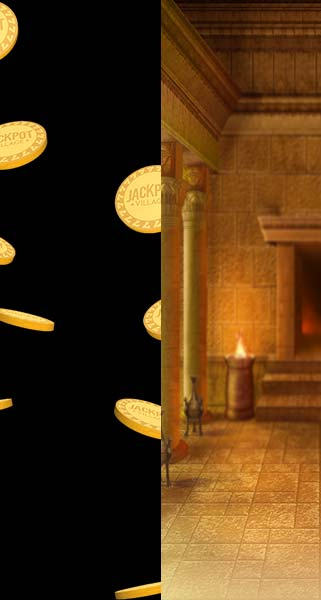
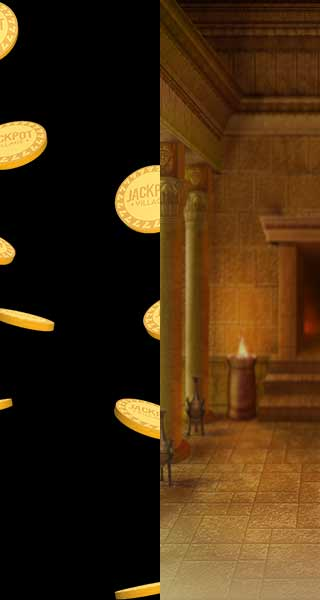
added  new JS

diff --git a/src/sizes/160x600/style.scss b/src/sizes/160x600/style.scss
@@ -1,22 +1,25 @@
 @import "@project/styles/global.scss";
 
-$fr1line1Top:100px;
-$fr1line2Top:180px;
-$fr1line3Top:350px;
+$banHeight: 600px;
 
-$fr2line1Top:95px;
-$fr2line2Top:115px;
-$fr2line3Top:160px;
+$ctaPosBot: 30px;
 
-$fr3line1Top:75px;
-$fr3line2Top:95px;
-$fr3line3Top:140px;
-$fr3ProvidersTop:156px;
+$fr1line1Top:180px;
+$fr1line2Top:240px;
+$fr1line3Top:340px;
+
+$fr2line1Top:115px;
+$fr2line2Top:185px;
+$fr2line3Top:230px;
+
+$fr3line1Top:115px;
+$fr3line2Top:185px;
+$fr3line3Top:250px;
+$fr3ProvidersTop:380px;
 
 $fr4line1Top:95px;
 $fr4line2Top:115px;
 $fr4line3Top:160px;
-
 
 .fr-f1 {
 
@@ -52,8 +55,8 @@ $fr4line3Top:160px;
 }
 .fr-f2 {
 	&-slide {
-		height: 600px;
-		width: 600px;
+		height: 1200px;
+		width: 1200px;
 		position: relative;
 		display: block;
 		top: 0;
@@ -65,36 +68,33 @@ $fr4line3Top:160px;
 		&-cube {
 			background-color: $acc2-color;
 			position: absolute;
-			height: 600px;
-			width: 600px;
+			height: 1200px;
+			width: 1200px;
 			left: -170px;
 			@include opacityFix(0, 0);
 		}
 
 	}
 	&-bg {
-		background: #EDBC58 repeat-y url("../jpv-bg-250x300.jpg") top right;
+		background: #EDBC58 repeat-y url("jpv-bg-160x600.jpg") top right;
 		height: 100%;
 		width: 100%;
 		display: block;
 		position: absolute;
-		background-size:  600px $banHeight ;
+		background-size:  320px $banHeight ;
 		top: 0;
 		left: 0;
 	}
-
 	&-toon {
-		background: no-repeat url("../jpv-char.png") bottom center;
+		background: no-repeat url("jpv-char-160x600.png") bottom center;
 		background-size: cover;
-		width: 101px;
-		height: 173px;
+		width: 160px;
+		height: 258px;
 		position: absolute;
-		left: -15px;
+		left: 0px;
 		bottom: 0;
 		display: block;
 	}
-
-
 	&-lines {
 		&-l1{
 			top: $fr2line1Top;
@@ -112,7 +112,7 @@ $fr4line3Top:160px;
 }
 .fr-f3 {
 	&-toon {
-		background: no-repeat url("../jpv-char.png") bottom center;
+		background: no-repeat url("jpv-char-160x600.png") bottom center;
 		background-size: cover;
 		width: 101px;
 		height: 173px;
@@ -138,43 +138,42 @@ $fr4line3Top:160px;
 	&-providers {
 		display: block;
 		position: absolute;
-		top: $fr3ProvidersTop;
 		width: 100%;
+		height: 100%;
 		.logo1, .logo2, .logo3 {
-			position: absolute;
-		}
-		.logo1 {
-			background: no-repeat url("../jpv-char.png") -15px 1px;
-			width: 68px;
-			height: 20px;
-			background-size: 101px 250px;
-			left: 5px;
-		}
-		.logo2 {
-			background: no-repeat url("../jpv-char.png") -3px -21px;
-			width: 92px;
-			height: 26px;
-			background-size: 101px 250px;
-			margin: 0 auto;
 			@extend %center;
 		}
+		.logo1 {
+			background: no-repeat url("jpv-char-160x600.png") 0 0;
+			width: 160px;
+			height: 25px;
+			background-size: 160px 360px;
+			bottom: 135px;
+		}
+		.logo2 {
+			background: no-repeat url("jpv-char-160x600.png") 0 -30px;
+			width: 160px;
+			height: 28px;
+			background-size: 160px 360px;
+			bottom: 100px;
+		}
 		.logo3 {
-			background: no-repeat url("../jpv-char.png") -5px -49px;
-			width: 86px;
-			height: 22px;
-			background-size: 101px 250px;
-			right: 5px;
+			background: no-repeat url("jpv-char-160x600.png") 0 -58px;
+			width: 160px;
+			height: 28px;
+			background-size: 160px 360px;
+			bottom: 70px;
 		}
 	}
 }
 .fr-f4 {
 	&-bg {
-		background: $acc1-color repeat-y url("../jpv-bg-250x300.jpg") 0 0;
+		background: $acc1-color repeat-y url("jpv-bg-160x600.jpg") 0 0;
 		height: 100%;
 		width: 100%;
 		display: block;
 		position: absolute;
-		background-size:  600px $banHeight ;
+		background-size:  320px $banHeight ;
 		top: 0;
 		left: 0;
 		@include opacityFix(100%, 1);
@@ -194,4 +193,12 @@ $fr4line3Top:160px;
 		}
 	}
 	&-terms{}
+}
+
+.cta-btn {
+	font-size: 18px;
+	max-width: 130px;
+	border-radius: 50px;
+	padding: 5px 0;
+	bottom: $ctaPosBot;
 }

diff --git a/src/sizes/160x600/script.js b/src/sizes/160x600/script.js
@@ -123,7 +123,7 @@ var timeline = (function MasterTimeline() {
 				.from(fr02,0.0, {opacity:0,force3D:true}, 0.1)
 				.from(fr02Cube,frSD, {opacity:1, x:-555, transformOrigin:"50% 50%", ease:Power4.easeOut}, 0.3)
 				.from(fr02Bg,frSD, {opacity:0}, 0.4)
-				.from(fr02Toon,frSD, {opacity:0, x:-700, transformOrigin:"50% 50%", ease:Power4.easeOut}, 0.5)
+				.from(fr02Toon,frSD, {opacity:0,scale: 1.5, transformOrigin:"50% 50%", ease:Power4.easeOut}, 0.5)
 				.from(fr02Line1, frSD, {opacity:0, x: -50, ease:Elastic.easeOut.config(2, 1)}, 0.6)
 				.from(fr02Line2, frSD, {opacity:0, x: 50, ease:Elastic.easeOut.config(2, 1)}, 0.7)
 				.from(fr02Line3, frSD, {opacity:0, ease:Elastic.easeOut.config(2, 1)},0.8)
@@ -135,7 +135,6 @@ var timeline = (function MasterTimeline() {
 			// Choose from 1200+ games
 			var tl = new TimelineMax();
 			tl
-				.to(fr02,0.0, {opacity:0,force3D:true}, 0.1)
 				.to(fr02Line1, frSD, {opacity:0, ease:Elastic.easeOut.config(2, 1)}, 0.0)
 				.to(fr02Line2, frSD, {opacity:0, ease:Elastic.easeOut.config(2, 1)}, 0.1)
 				.to(fr02Line3, frSD, {opacity:0, ease:Elastic.easeOut.config(2, 1)},0.2)
@@ -156,12 +155,17 @@ var timeline = (function MasterTimeline() {
 				autoRound:false,
 			});
 			
+			var Cont={val:0} , NewVal = 100 ;
+			
 			var tl = new TimelineMax();
 			tl
 				.to(fr03,0.0, {opacity:0,force3D:true}, 0.1)
 				.from(fr04,1.0, {opacity:0,force3D:true}, 0.5)
 				.from(fr04Bg, frSD, {opacity:0}, 0.5)
 				.from(fr04Line1, frSD, {opacity:0, scale: 0.1, ease:Elastic.easeOut.config(2, 1)},  0.5)
+				.to(Cont,1,{val:1000000,roundProps:"val",onUpdate:function(){
+						fr04Line2.innerHTML=Cont.val
+					}})
 				.from(fr04Line2, frSD, {opacity:0, scale: 0.1, ease:Elastic.easeOut.config(2, 1)},  0.5)
 				.from(fr04Line3, frSD, {opacity:0, y: 20, ease:Elastic.easeOut.config(2, 1)},  0.5)
 				.from(fr04Cta, frSD, {scale:0.1 ,opacity:0 , ease:Elastic.easeOut.config(1, 0.3)},  0.5)
@@ -169,6 +173,8 @@ var timeline = (function MasterTimeline() {
 				.to(fr04Line2, frSOD, {opacity:0}, 2.0)
 				.to(fr04Line3, frSOD, {opacity:0}, 2.0);
 			return tl;
+			
+			
 		}
 		
 		tl
@@ -178,9 +184,9 @@ var timeline = (function MasterTimeline() {
 			.add(sceneFour(), 'frame4+=1.5');
 		
 		// DEBUG:
-		// tl.play('frame3'); // start playing at label:frame3
+		// tl.play('frame2+=0'); // start playing at label:frame3
 		// tl.pause('frame1=1.0'); // pause the timeline at label:frame3
-		// tl.pause('frame1=1.2'); // pause the timeline at label:frame3
+		tl.play('frame2=1.0'); // pause the timeline at label:frame3
 	}
 	
 	function updateStart() {

diff --git a/src/sizes/styles/global-frame.scss b/src/sizes/styles/global-frame.scss
@@ -58,16 +58,12 @@
 .cta-btn {
 	background-color: $acc2-color;
 	color: $acc3-color;
-	font-size: 22px;
 	width: 100%;
-	max-width: 180px;
 	position: absolute;
 	display: block;
-
-	border-radius: 50px;
-	padding: 5px 10px;
 	text-decoration: none;
 	text-align: center;
 	@extend %center;
-	bottom: 20px ;
 }
+
+

diff --git a/dist/landing/index.html b/dist/landing/index.html
@@ -139,6 +139,6 @@
 		&copy; Shawn Naquin 2019
 	</footer>
 
-<script type="text/javascript" src="../landing/index.js?7ccc7bf8bf78a627c645"></script></body>
+<script type="text/javascript" src="../landing/index.js?a06c2d46b90628d2b05f"></script></body>
 
 </html>

diff --git a/src/sizes/styles/ad-base-styles.scss b/src/sizes/styles/ad-base-styles.scss
@@ -43,6 +43,7 @@ html, body {
 	width: 100%;
 }
 
+
 %center {
 	position: absolute;
 	left: 0;
